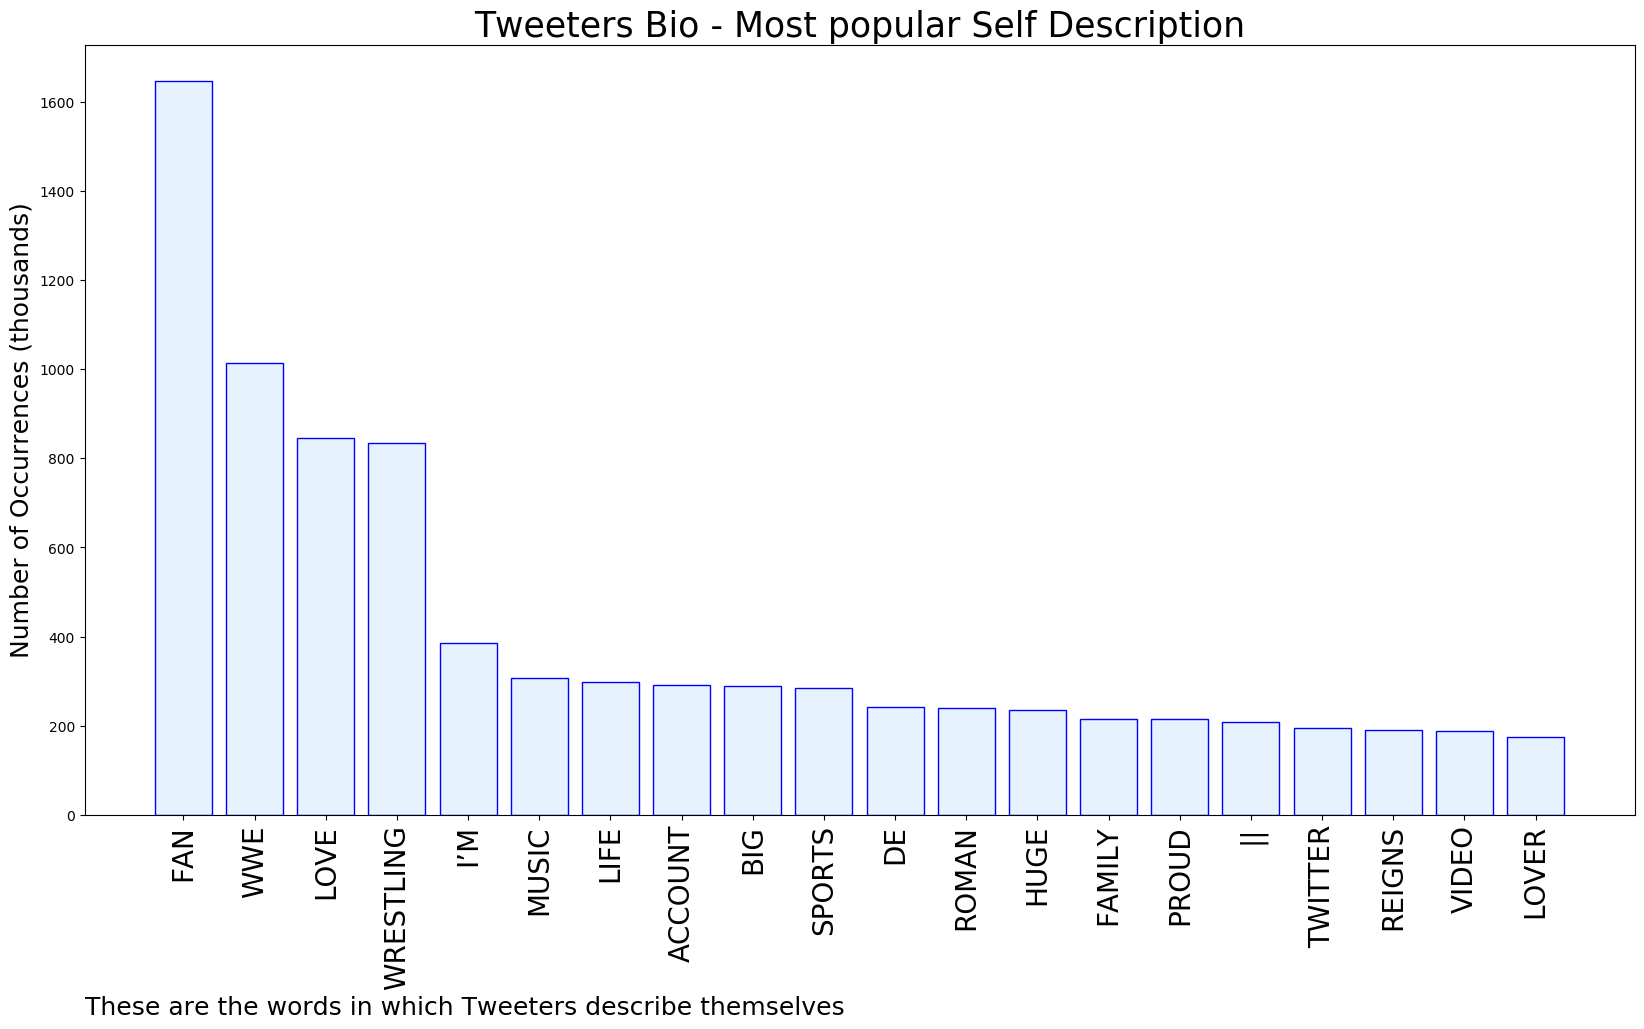
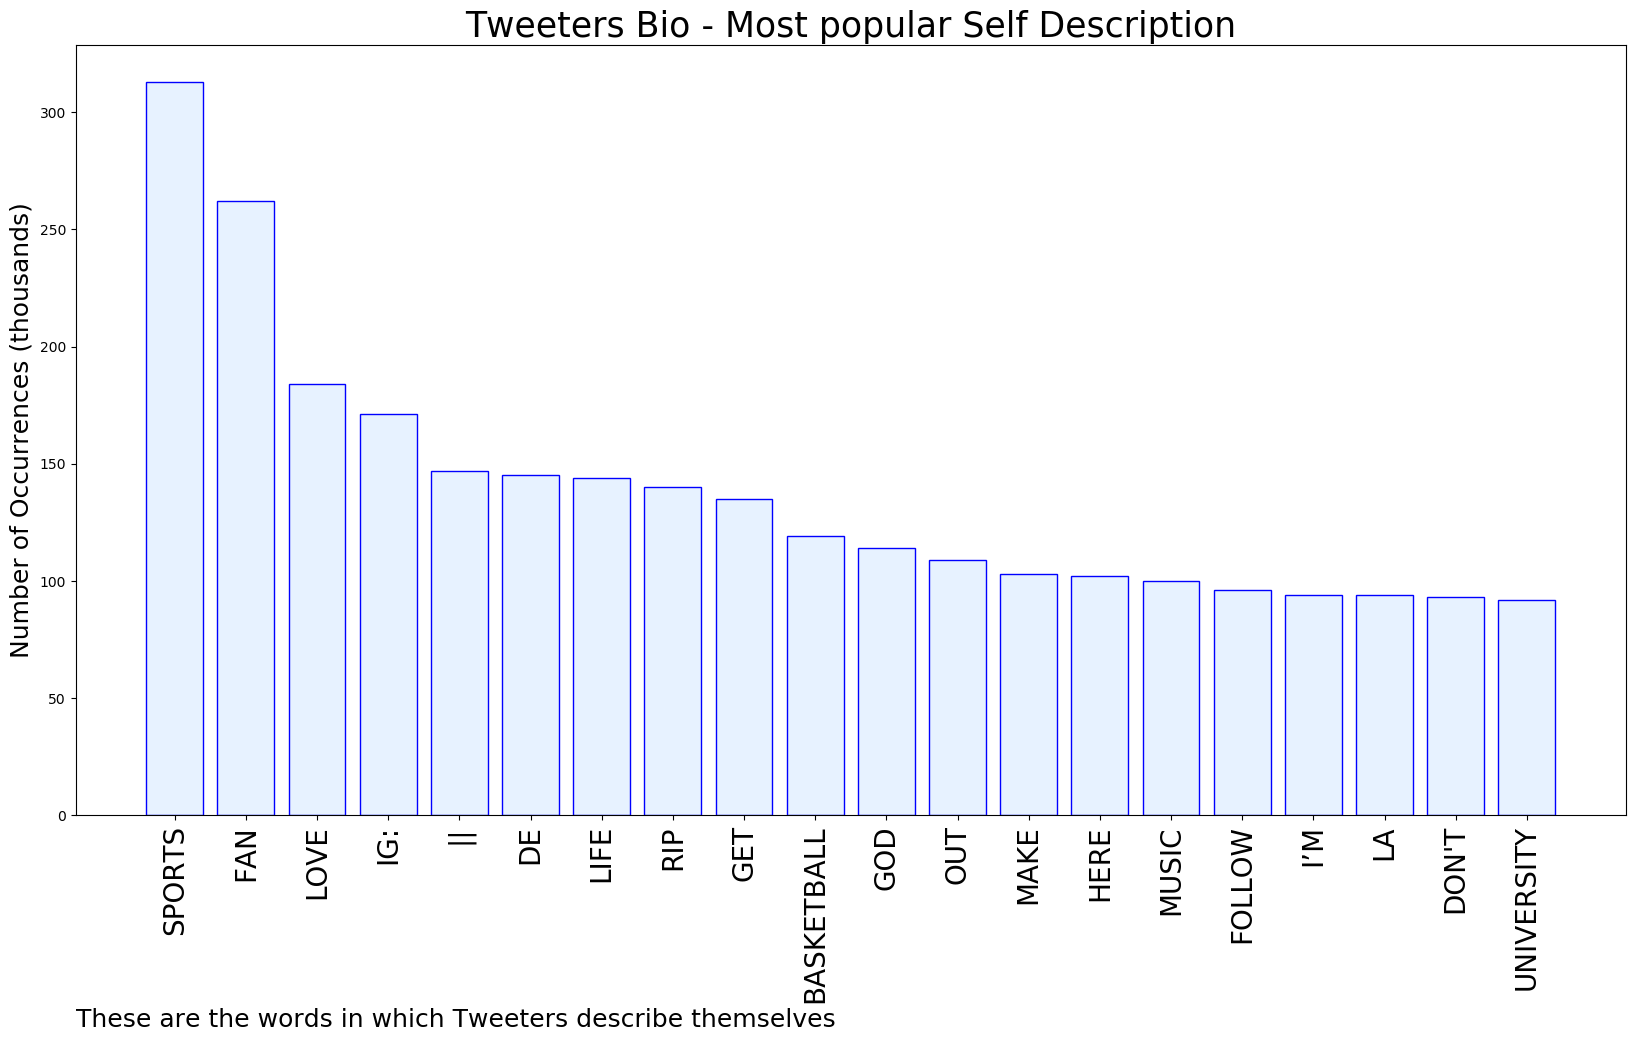
Updating with latest report

diff --git a/README.md b/README.md
@@ -1,5 +1,5 @@
 # MURCHIE85 TWITTER PROCESSING 
-&#x1F34E; **TOPIC = "#SummerSlam"**
+&#x1F34E; **TOPIC = "Luka"**
 
 ## AUTOMATED RESEARCH SUMMARY
 
@@ -15,22 +15,22 @@
 
 |                **Sample-Tweets**        |
 | :-------------: |
-| RT @WWE: Dream crusher.@WWERollins stomps out @35_Dominik's hopes for victory at #SummerSlam! https://t.co/JCq4gckWr3 |
-| Well you never saw it coming that’s for sure #SummerSlam as the big dog as returned to his yard @WWERomanReigns |
-| RT @SattaLaFleur: I’m such a cornball but I’m hoping Bayley bringing out that broom was in reference to this Macho God gem #Summerslam http… |
+| RT @BronAndBrow: Luka was doing bottle flips in the huddle right before he hit the game winner not even paying attention to the play being… |
+| I love Luka but we need to tone it down. We said Booker was the next Kobe after he dropped 70. Luka had his moment,… https://t.co/2tOJQJg7YW |
+| @TheHoopCentral Giannis, Curry, Luka, Harden |
 
-The most popular user is: **somayaleo**
-<div class="alert alert-block alert-danger"> RT @WWERomanReigns: You’ll never see it coming. #SummerSlam https://t.co/potOMXGs9S</div>
+The most popular user is: **luka_bagashvili**
+<div class="alert alert-block alert-danger"> RT @pulte: I’m going to give away $50,000 to 1 random person who retweets this tweet AND hits subscribe in the link in my bio!! (If you don…</div>
 
 ## RELATED METRICS<br>
 | Metric | Value |
 | ------------- | ------------- |
-| #1 Most tweeted to  | **WWERomanReigns** |
-| #2 Most tweeted to  | **WWE** |
-| #3 Most tweeted to  | **SummerSlam** |
-| NewProfiles (less than 10 days) | 1.61%  |
-| Tweeters with < 10 followers  | 6.87%|
-| Tweeters with > 1000000 followers  | 0.1%  |
+| #1 Most tweeted to  | **BronAndBrow** |
+| #2 Most tweeted to  | **LonzoPlsScore** |
+| #3 Most tweeted to  | **Jay_Da_Villain** |
+| NewProfiles (less than 10 days) | 0.45%  |
+| Tweeters with < 10 followers  | 2.7%|
+| Tweeters with > 1000000 followers  | 0.04%  |
 
 
 
@@ -39,11 +39,11 @@ The most popular user is: **somayaleo**
 
 | Popularity Rank  | Term |
 | ------------- | ------------- |
-| first  | **SUMMERSLAM**  |
-| second  | **NEVER**  |
-| third  | **COMING** |
-| fourth  | **YOU’LL**  |
-| fifth  | **@WWEROMANREIGNS:**  |
+| first  | **LUKA**  |
+| second  | **GAME**  |
+| third  | **DONCIC** |
+| fourth  | **BEFORE**  |
+| fifth  | **DOING**  |
 
 
 ## Twitter Bio Analysis![image](BIO.png)
@@ -54,13 +54,13 @@ VIEWS WERE : **SUBJECTIVE**  (33.33%) & **NEGATIVELY-SUBJECTIVE** (6.67%) **OBJE
 ### TWEET SAMPLE 
 | Random value picked from array |
 | ------------- |
-|RT @InsaneChampWres: Tonight, #SummerSlam is Claymore Country! @GlasgowJester experienced it first-hand in @DMcIntyreWWE’s last ICW match i… |
+|@theoldgreywolf @Evan_P_Grant You nailed it, just like Luka! |
 
 ### MOST RETWEETED 
 
-| The most retweeted user is: **somayaleo**  |
+| The most retweeted user is: **luka_bagashvili**  |
 | ------------- |
-| RT @WWERomanReigns: You’ll never see it coming. #SummerSlam https://t.co/potOMXGs9S |
+| RT @pulte: I’m going to give away $50,000 to 1 random person who retweets this tweet AND hits subscribe in the link in my bio!! (If you don… |
 
 ### CONCLUSION & EXTERNAL ANALYSIS
 
